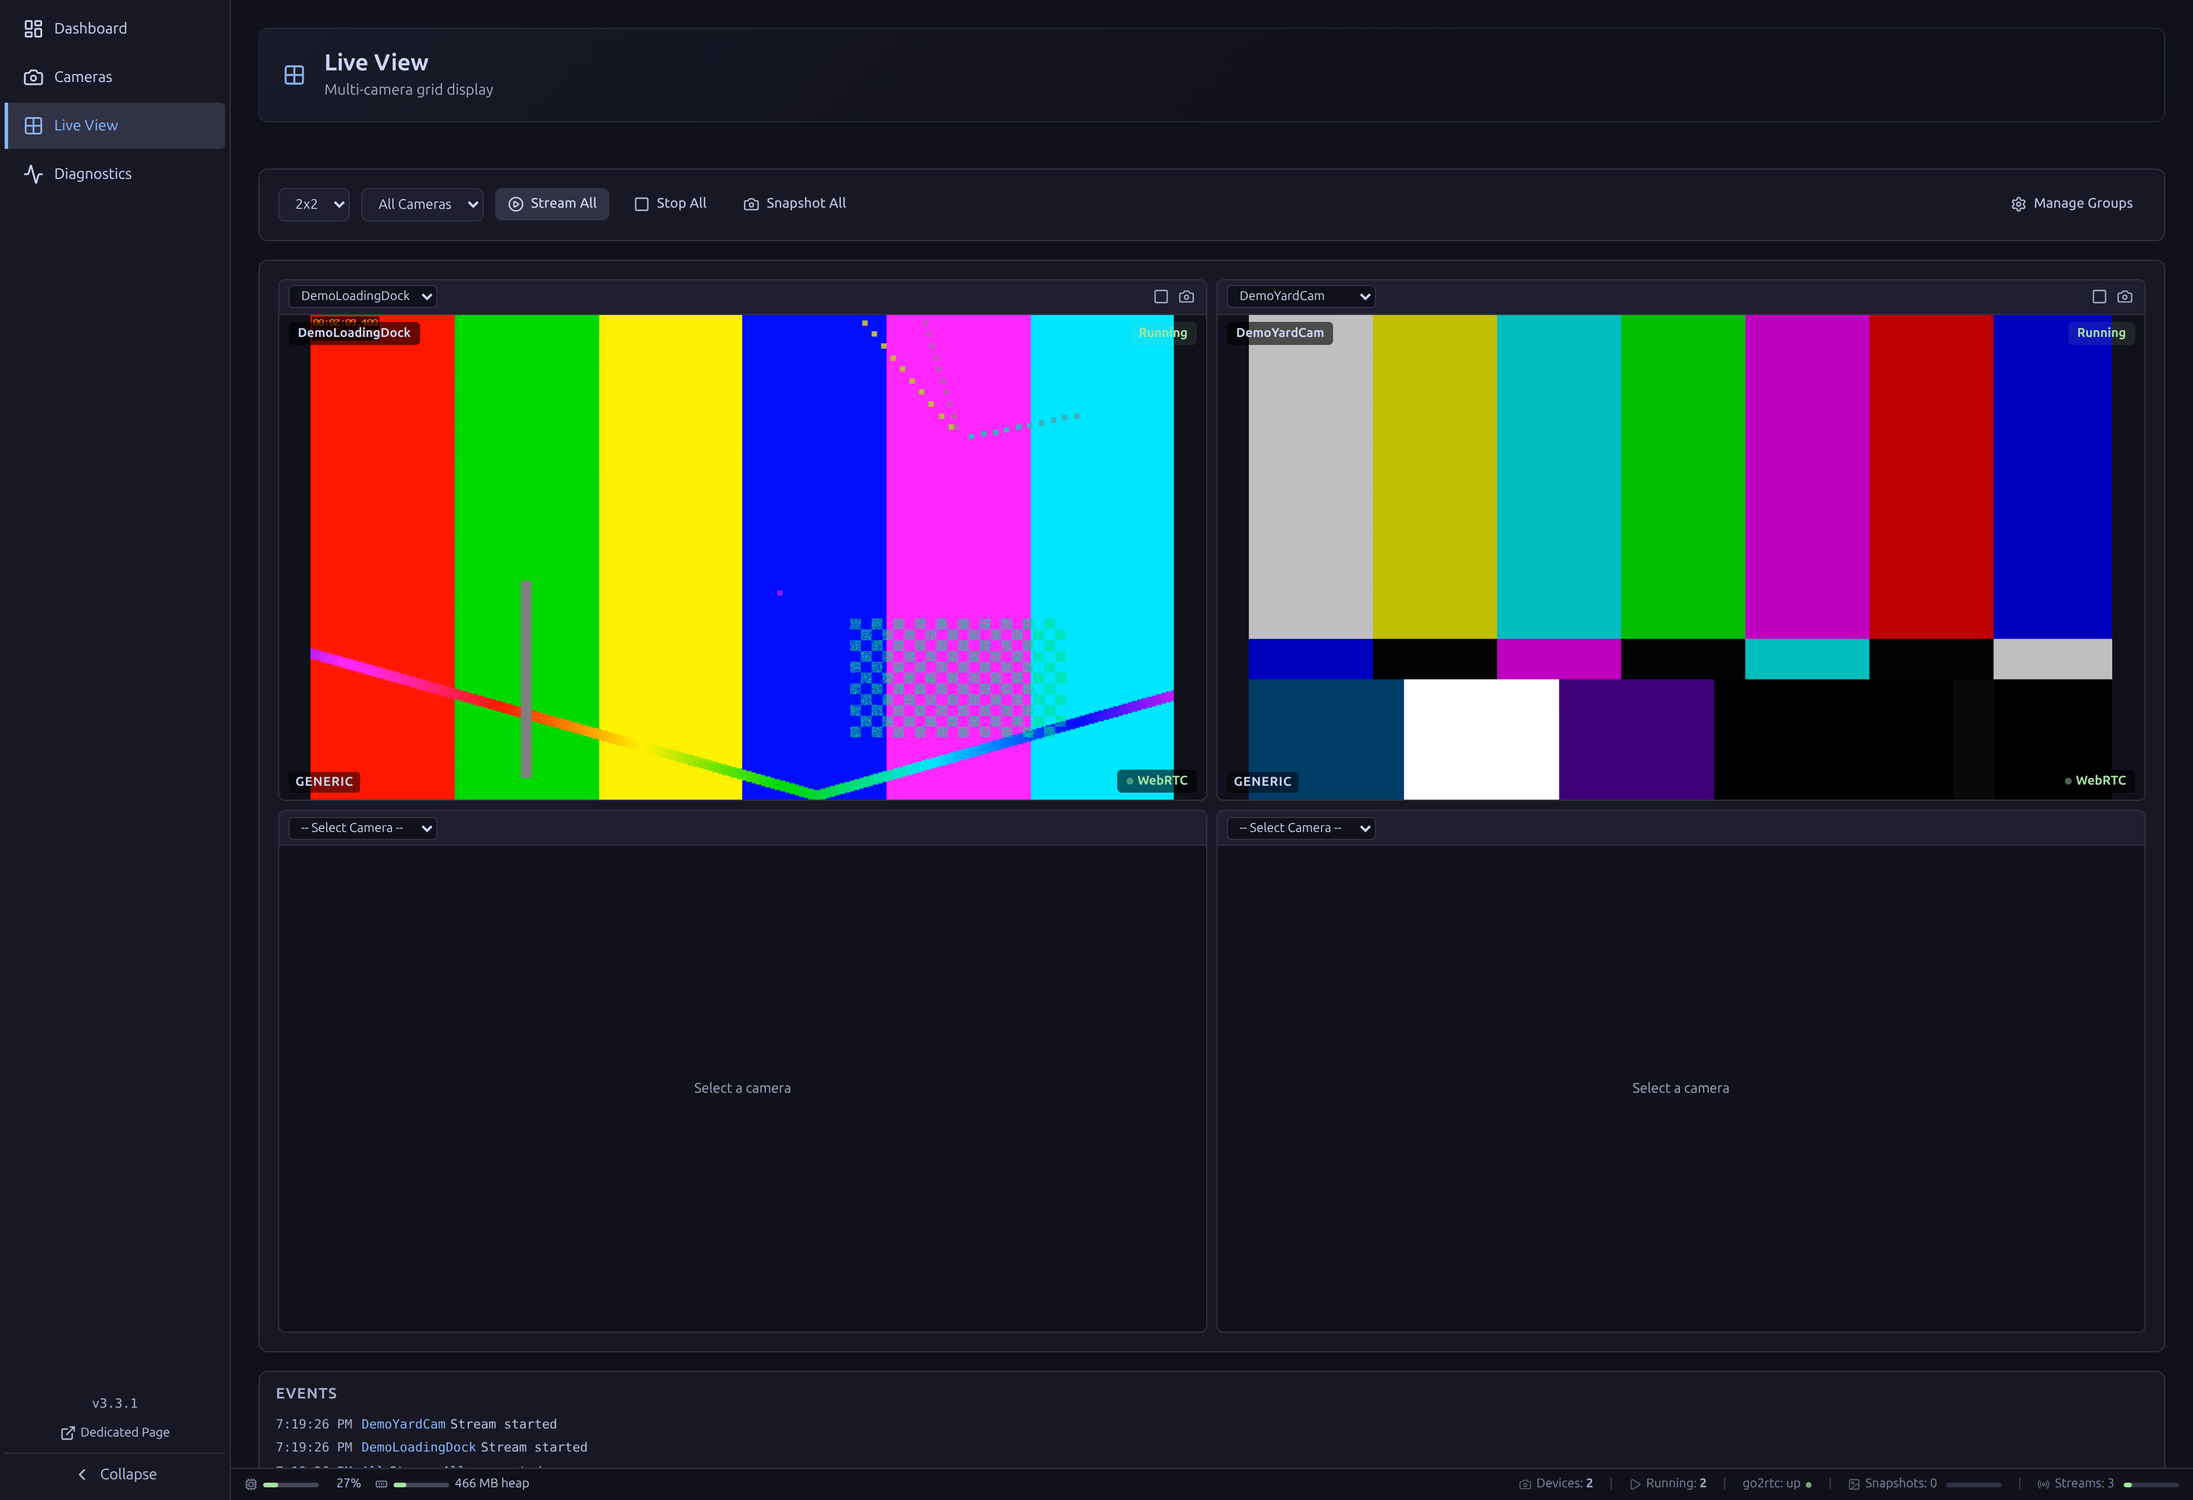
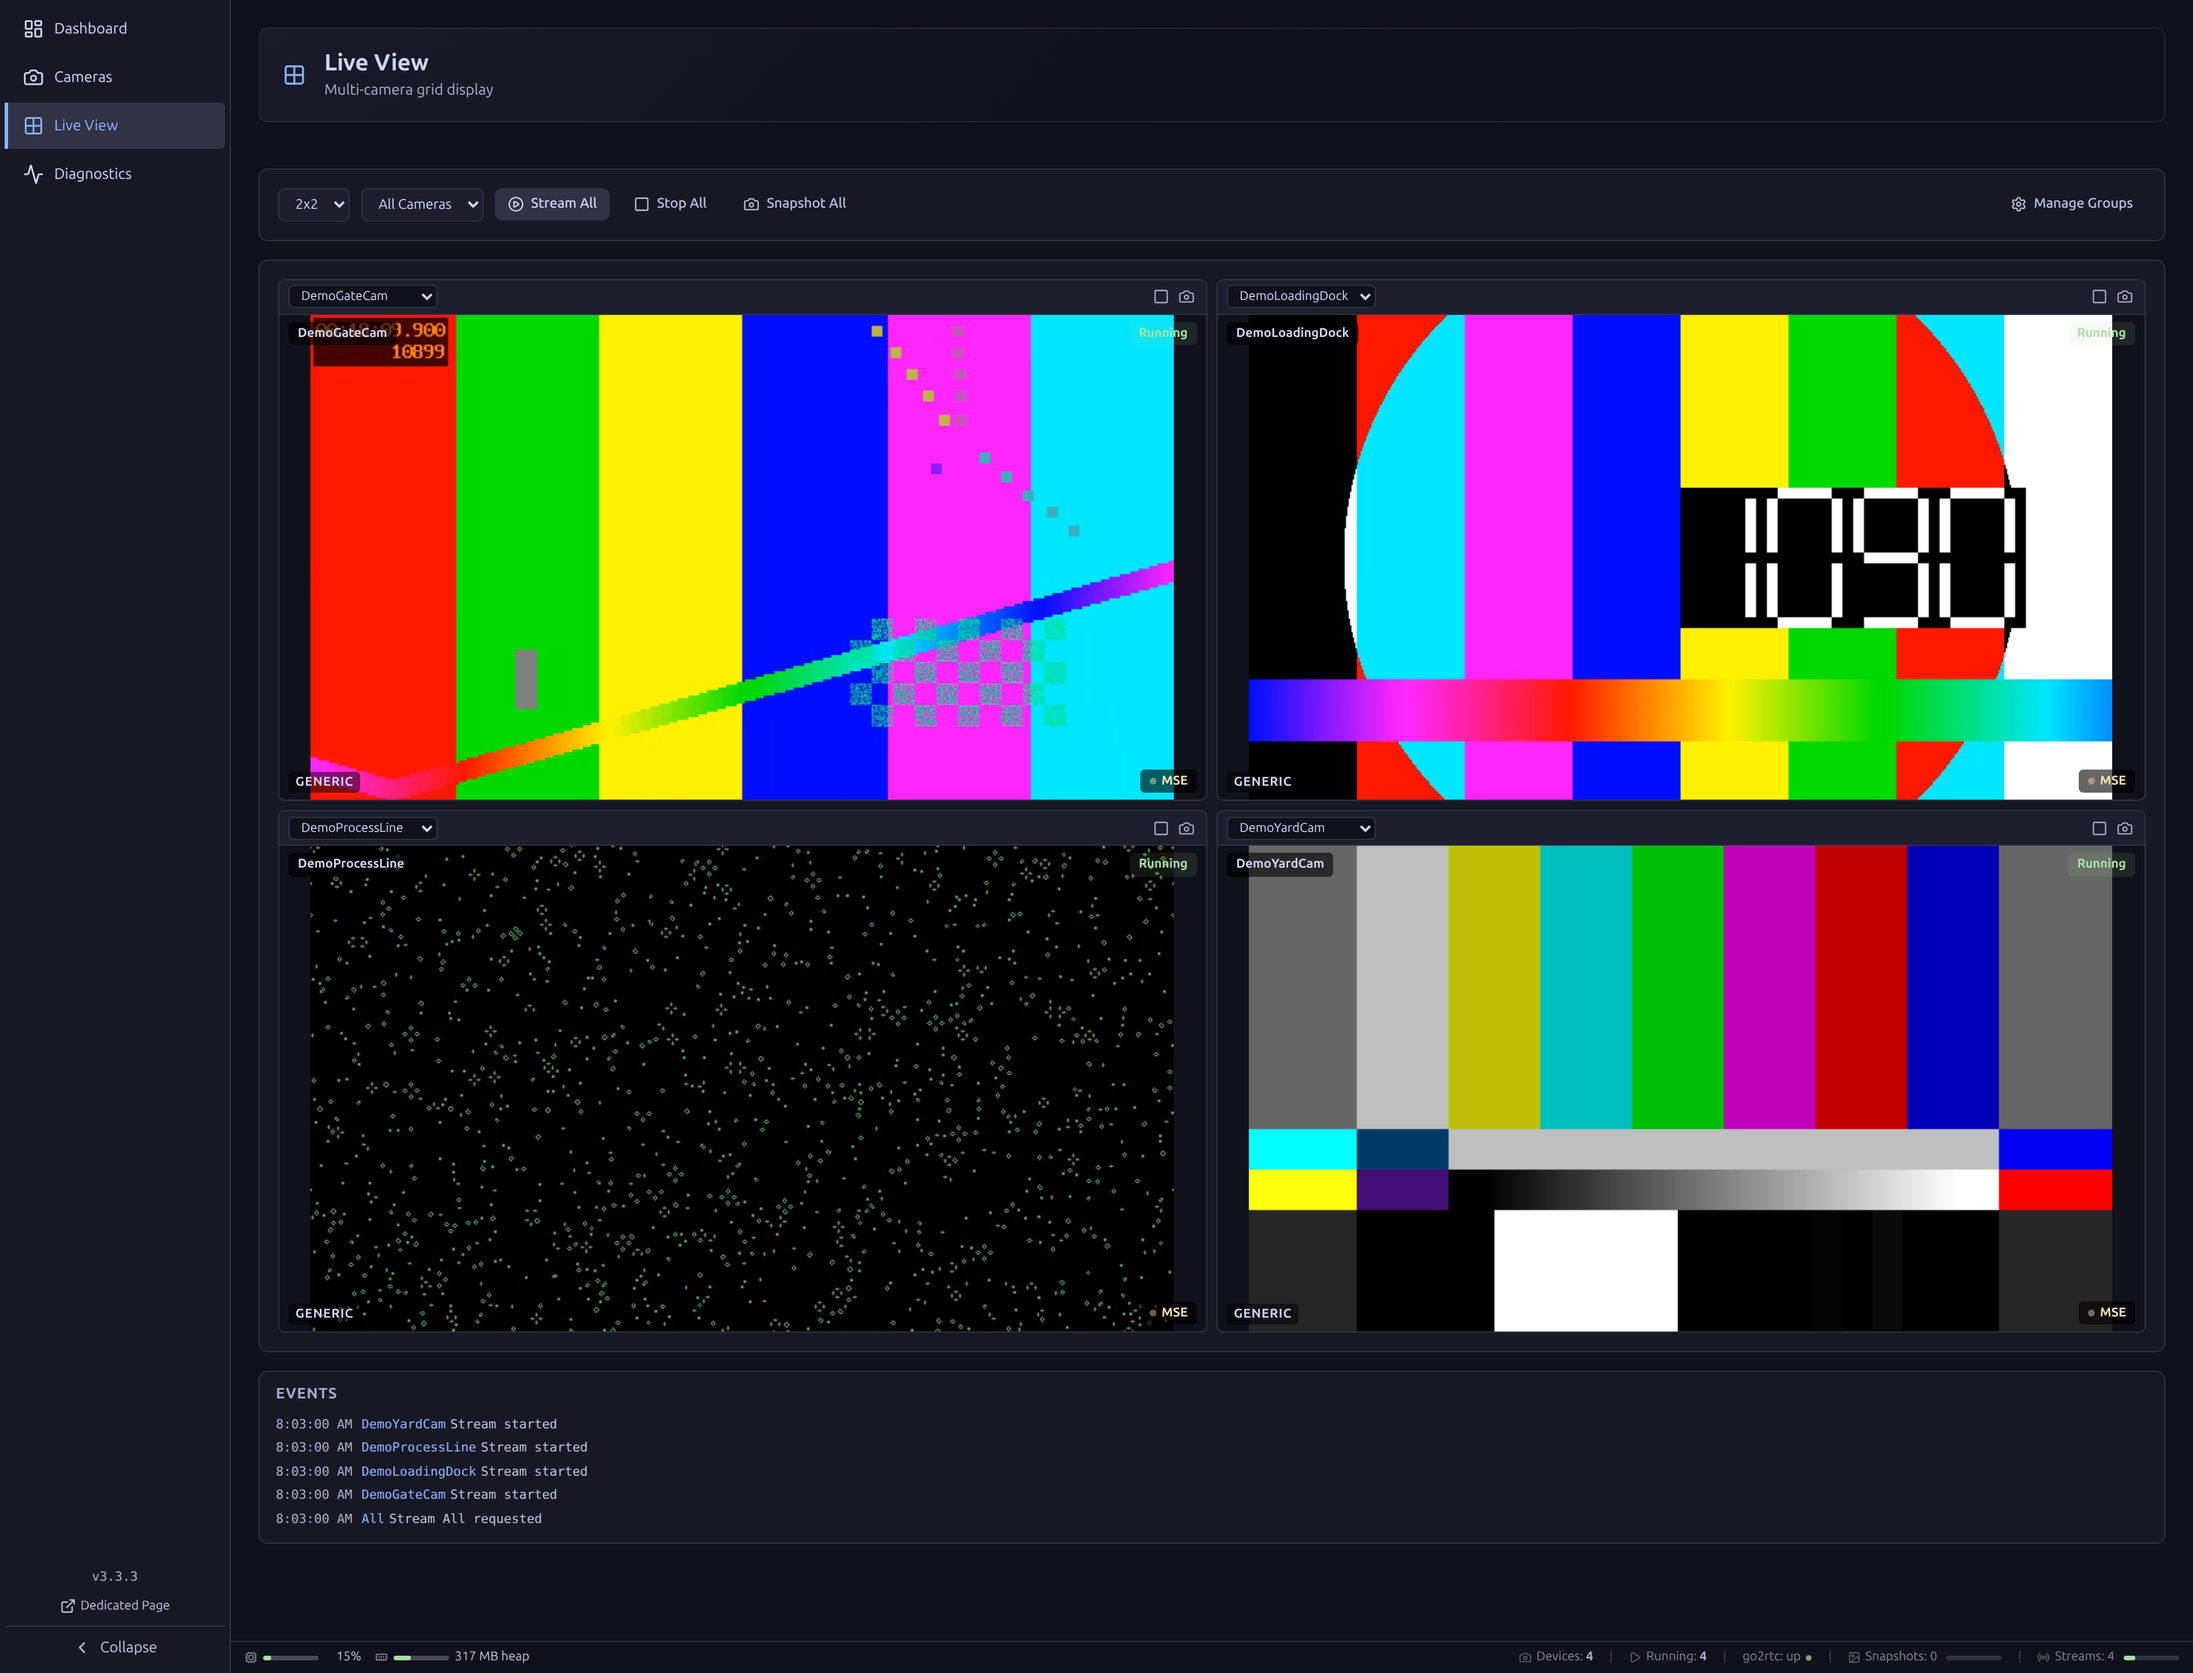
docs(readme): recapture screenshots for 3.3.3

diff --git a/README.md b/README.md
@@ -22,46 +22,44 @@ release decision.
 
 ## What it looks like
 
-Every camera pictured below is a synthetic RTSP test source stood up for this
-README (see *How to use it*) — `DemoLoadingDock` and `DemoYardCam`. No physical
-camera is required to reproduce any of it.
+Every camera pictured below is one of four synthetic RTSP test sources
+(`DemoLoadingDock`, `DemoYardCam`, `DemoGateCam`, `DemoProcessLine`), each an
+ffmpeg test pattern. No physical camera is needed (`scripts/demo-cameras.sh`
+in *How to use it* stands up two).
 
-**Camera device detail** — the Connection Browser's device list, expanded. It
-shows exactly what the module discovers per device: `DemoLoadingDock`'s and
-`DemoYardCam`'s RTSP media profiles (H.264), each with Snapshot/Stream/Copy
-URI actions. (ONVIF discovery — manufacturer/model/firmware/serial and
-multi-profile enumeration — is a real capability of the module against ONVIF
-hardware; it isn't pictured here because it needs physical ONVIF hardware to
-demonstrate honestly.)
+**Camera device detail** — the Connection Browser's device list for all four
+devices. It shows exactly what the module discovers per device: each one's
+RTSP media profile (H.264) with Snapshot/Stream/Copy URI actions. (ONVIF
+discovery — manufacturer/model/firmware/serial and multi-profile enumeration —
+is a real capability of the module against ONVIF hardware; it isn't pictured
+here because it needs physical ONVIF hardware to demonstrate honestly.)
 
-![Camera device list showing RTSP media profiles for both synthetic devices](docs/images/camera-devices-list.png)
+![Camera device list showing RTSP media profiles for the four synthetic devices](docs/images/camera-devices-list.png)
 
 **Gateway Live View grid** — the Connection Browser's built-in multi-camera
-grid, actually streaming: the left tile is `DemoLoadingDock`'s synthetic feed
-(colour bars, a moving marker, and a live timestamp overlay proving it isn't
-a static image); the right tile is `DemoYardCam`, a second synthetic source
-with a visibly different test pattern (SMPTE bars) so the two tiles are
-clearly distinct.
+grid, streaming all four devices at once, each with a distinct pattern:
+`DemoLoadingDock` (colour bars with a running counter), `DemoYardCam` (SMPTE HD
+bars), `DemoGateCam` (bars with a moving sweep and a burnt-in timecode) and
+`DemoProcessLine` (a Game of Life pattern that changes every frame).
 
-![Gateway Live View grid with two tiles showing live synthetic test video and a live timestamp overlay](docs/images/gateway-live-view-grid.png)
+![Gateway Live View grid with four tiles each showing live synthetic test video](docs/images/gateway-live-view-grid.png)
 
 **Perspective `CameraViewer` and `CameraGrid` components** — the same video,
 now embedded in a Perspective page next to whatever process data it belongs
-with. The top pane is a single `CameraViewer` bound to `DemoLoadingDock`; the
-bottom pane is a `CameraGrid` showing both synthetic devices side by side,
-proving the grid component streams multiple devices at once.
+with. On the left is a single `CameraViewer` bound to `DemoLoadingDock`; on the
+right a 2×2 `CameraGrid` streams all four devices at once.
 
-![Perspective view with a CameraViewer component on top and a two-camera CameraGrid below, both showing live video](docs/images/perspective-camera-viewer-grid.png)
+![Perspective view with a CameraViewer component on the left and a four-camera CameraGrid on the right, all showing live video](docs/images/perspective-camera-viewer-grid.png)
 
 **Designer-scope authoring** — `CameraViewer` and `CameraGrid` are ordinary
-Perspective components in the Designer's own component palette (Camera Driver
-category), draggable onto any view. The property editor shown here is a
-`CameraViewer` dropped on a scratch view, exposing its real bindable
-properties — `deviceName`, `mode`, `snapshotInterval`, `showOverlay`,
-`objectFit`, `showSaveButton`, `showPtzControls` — the same as any built-in
-component, with no special-casing needed to use them.
+Perspective components in the Designer's own component palette, under a Camera
+Driver category, draggable onto any view. Here the same view is open in the
+Designer with its `CameraViewer` selected, streaming live on the canvas too. In
+the property editor a `CameraViewer` exposes its bindable properties —
+`deviceName`, `mode`, `snapshotInterval`, `showOverlay`, `objectFit`,
+`showSaveButton`, `showPtzControls` — the same as any built-in component.
 
-![Designer property editor for a CameraViewer component dropped on a scratch view, showing its deviceName, mode, snapshotInterval and other bindable properties](docs/images/designer-perspective-palette.png)
+![Ignition Designer with the Perspective component palette open on its Camera Driver category (Camera Grid, Camera Viewer) and a view of four live cameras on the canvas](docs/images/designer-perspective-palette.png)
 
 ## What it does
 
